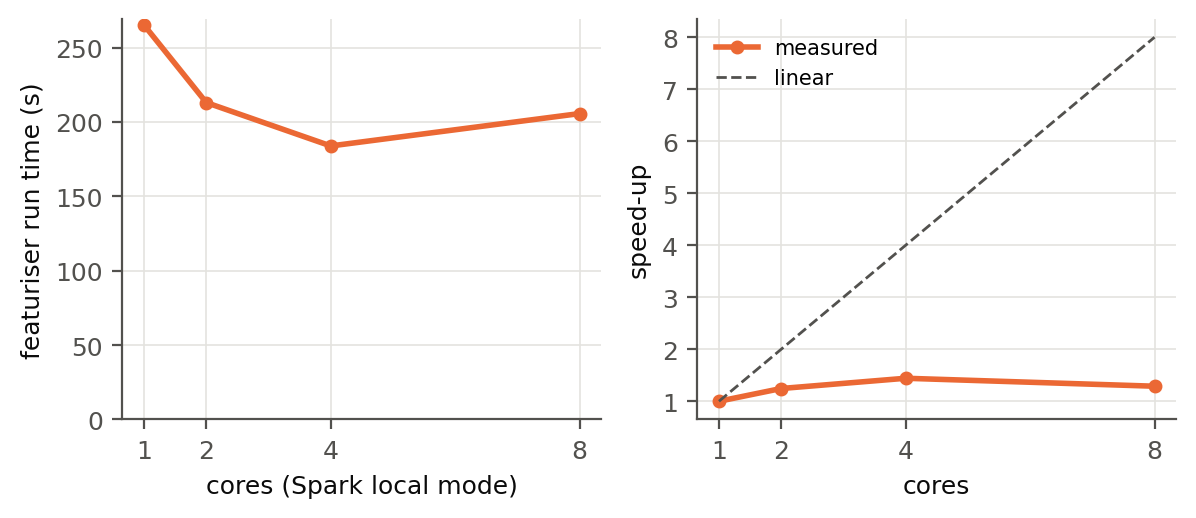
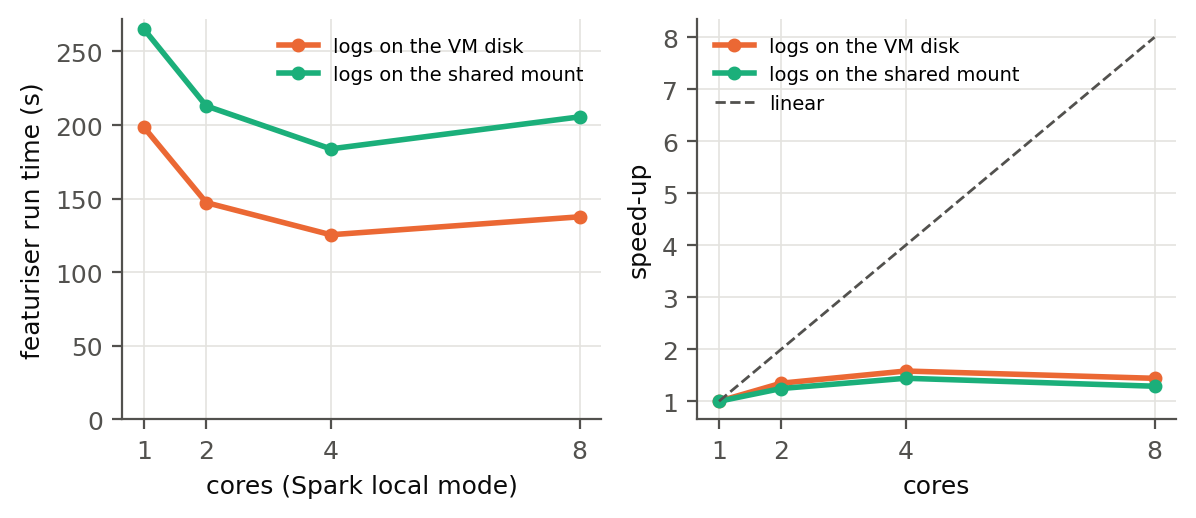
featuriser scaling from the vm disk next to the shared-mount case

diff --git a/src/analysis/figures.py b/src/analysis/figures.py
@@ -154,20 +154,27 @@ def scaling():
     f = REPRODUCED / "scaling" / "summary.csv"
     if not f.exists():
         return
-    g = pd.read_csv(f)
-    g = g[g["mode"] == "local"].sort_values("cores")
+    df = pd.read_csv(f)
+    modes = [("vmdisk", "logs on the VM disk", OURS_C), ("local", "logs on the shared mount", THIRD_C)]
+    df = df[df["mode"].isin([m for m, _, _ in modes])]
+    xs = sorted(df.cores.unique())
     fig, axes = plt.subplots(1, 2, figsize=(6.8, 2.6))
-    axes[0].plot(g.cores, g.total_s, "-o", color=OURS_C, ms=4)
+    for mode, label, colour in modes:
+        g = df[df["mode"] == mode].sort_values("cores")
+        if g.empty:
+            continue
+        axes[0].plot(g.cores, g.total_s, "-o", color=colour, ms=4, label=label)
+        axes[1].plot(g.cores, g.speedup, "-o", color=colour, ms=4, label=label)
     axes[0].set_xlabel("cores (Spark local mode)")
     axes[0].set_ylabel("featuriser run time (s)")
     axes[0].set_ylim(0, None)
-    axes[1].plot(g.cores, g.speedup, "-o", color=OURS_C, ms=4, label="measured")
-    axes[1].plot(g.cores, g.cores / g.cores.min(), "--", color=INK2, lw=1, label="linear")
+    axes[0].legend(fontsize=7)
+    axes[1].plot(xs, np.array(xs) / min(xs), "--", color=INK2, lw=1, label="linear")
     axes[1].set_xlabel("cores")
     axes[1].set_ylabel("speed-up")
-    axes[1].legend(fontsize=7.5)
+    axes[1].legend(fontsize=7)
     for ax in axes:
-        ax.set_xticks(g.cores)
+        ax.set_xticks(xs)
     save(fig, "featuriser_scaling.png")
 
 

diff --git a/src/analysis/scaling_summary.py b/src/analysis/scaling_summary.py
@@ -15,7 +15,7 @@ def main():
     for f in sorted((PROCESSED / "scaling").glob("*/run_*.json")):
         d = json.loads(f.read_text())
         tag = d.get("tag") or f.parent.name
-        m = re.match(r"(local|standalone_)(\d+)w?_r(\d+)", tag)
+        m = re.match(r"(local|vmdisk|standalone_)(\d+)w?_r(\d+)", tag)
         if not m:
             continue
         cc = f.parent / "crosscheck.json"
@@ -27,7 +27,7 @@ def main():
             except Exception:
                 ok = None
         t = d["timings"]
-        rows.append({"mode": "local" if m.group(1) == "local" else "standalone",
+        rows.append({"mode": {"standalone_": "standalone"}.get(m.group(1), m.group(1)),
                      "units": int(m.group(2)), "rep": int(m.group(3)), "cores": d["default_parallelism"],
                      "total_s": t["total_s"], "parse_s": t["parse_tasks_s"], "descriptor_s": t["descriptor_s"],
                      "metadata_s": t["metadata_s"], "prats_s": t["prats_s"], "session_s": t["session_s"],

diff --git a/docs/results.md b/docs/results.md
@@ -44,21 +44,30 @@ How the metrics are computed (as the code computes them, which is what we reprod
     against 27.55.
   - Table 6: the Garralda descriptor beats the Prats descriptor on F-measure and NMI in all 8
     size/algorithm cells, as in the paper.
-- Scaling of the PySpark featuriser on VM 2 (4.09 GB read through the shared mount, 9 jobs per run,
-  median of 2 runs, every run reproduces the reference descriptors;
-  `results/reproduced/scaling/summary.csv`, per repetition and per phase in `runs.csv`):
+- Scaling of the PySpark featuriser on VM 2 (4.09 GB, 9 jobs per run, median of 2 repetitions, every
+  run reproduces the reference descriptors; `results/reproduced/scaling/summary.csv`, per repetition
+  and per phase in `runs.csv`). Two sets: the logs on the VM's own disk, and the same logs read
+  through the shared project mount (the I/O-bound case):
 
-  | Cores | Total (s) | Session start (s) | Processing (s) | Speed-up (processing) | MB/s |
-  |---|---|---|---|---|---|
-  | 1 | 265 | 22 | 243 | 1.00 | 15.4 |
-  | 2 | 213 | 22 | 191 | 1.27 | 19.2 |
-  | 4 | 184 | 22 | 162 | 1.50 | 22.3 |
-  | 8 | 206 | 23 | 182 | 1.33 | 19.9 |
+  | Logs on | Cores | Total (s) | Session start (s) | Processing (s) | Speed-up (processing) | MB/s |
+  |---|---|---|---|---|---|---|
+  | VM disk | 1 | 198 | 20 | 179 | 1.00 | 20.6 |
+  | VM disk | 2 | 147 | 18 | 129 | 1.39 | 27.8 |
+  | VM disk | 4 | 125 | 18 | 107 | 1.66 | 32.6 |
+  | VM disk | 8 | 138 | 21 | 117 | 1.53 | 29.7 |
+  | shared mount | 1 | 265 | 22 | 243 | 1.00 | 15.4 |
+  | shared mount | 2 | 213 | 22 | 191 | 1.27 | 19.2 |
+  | shared mount | 4 | 184 | 22 | 162 | 1.50 | 22.3 |
+  | shared mount | 8 | 206 | 23 | 182 | 1.33 | 19.9 |
 
-  The Spark session start is about 22 s and constant, so it is not the main limit: the processing part
-  itself only speeds up 1.5x at 4 cores and gets slower again at 8. At this data size the featuriser is
-  I/O bound (the logs are read from the shared project mount), not start-up bound. VM 1 measured lower
-  totals (206, 154, 141 s at 1, 2, 4 cores) on its faster mount, with the same shape.
+  The Spark session start is about 20 s and constant, so it is not the main limit. Storage matters:
+  from the VM disk every core count is 25 to 33% faster than through the mount, and the repetitions
+  are far more repeatable (the two 1-core runs differ by 0.6 s on the disk and by 52 s through the
+  mount). But the shape survives the move: even from the local disk the processing part speeds up
+  only 1.7x at 4 cores and gets slower again at 8, so beyond 4 cores the limit is not the storage
+  either; the work is split into 9 separate Spark jobs (one per setting folder) whose few large files
+  bound the useful parallelism at this data size. VM 1 measured 206, 154, 141 s at 1, 2, 4 cores on
+  its faster mount, with the same shape.
 
 ## 2. Check of the model code (FGCS 2026 anchor)
 

diff --git a/WORKLOG.md b/WORKLOG.md
@@ -196,3 +196,14 @@ with 2 vCPUs that I used to develop the pipeline and for the long baseline runs.
   legacy grid next to it, the corrected scaling explanation, both re-run campaigns described as
   queries against the 2022 gallery, the size-identification trade-off, and the ratio and incremental
   caveats. docs/cluster.md got the campaign 2 section, docs/environment.md the VM 2 table.
+
+## 10 November 2026
+
+- 02:50 to 03:20 Featuriser scaling repeated with the event logs copied to the VM's own disk
+  (scaling.sh and spark_featurise_chunked.sh take LOGS and PREFIX now); the shared-mount set is kept
+  next to it as the I/O-bound case. VM disk, medians of 2: 198, 147, 125, 138 s for 1, 2, 4, 8 cores;
+  shared mount: 265, 213, 184, 206 s. Every run reproduces the reference descriptors. From the disk
+  every core count is 25 to 33% faster and the repetitions are far more repeatable (0.6 s apart at
+  1 core against 52 s through the mount), but the shape stays: the processing speed-up peaks at 1.7x
+  on 4 cores and drops at 8, so beyond 4 cores the limit is the 9-job structure with its few large
+  files per job, not the storage. Table, figure and explanation updated in docs/results.md.
